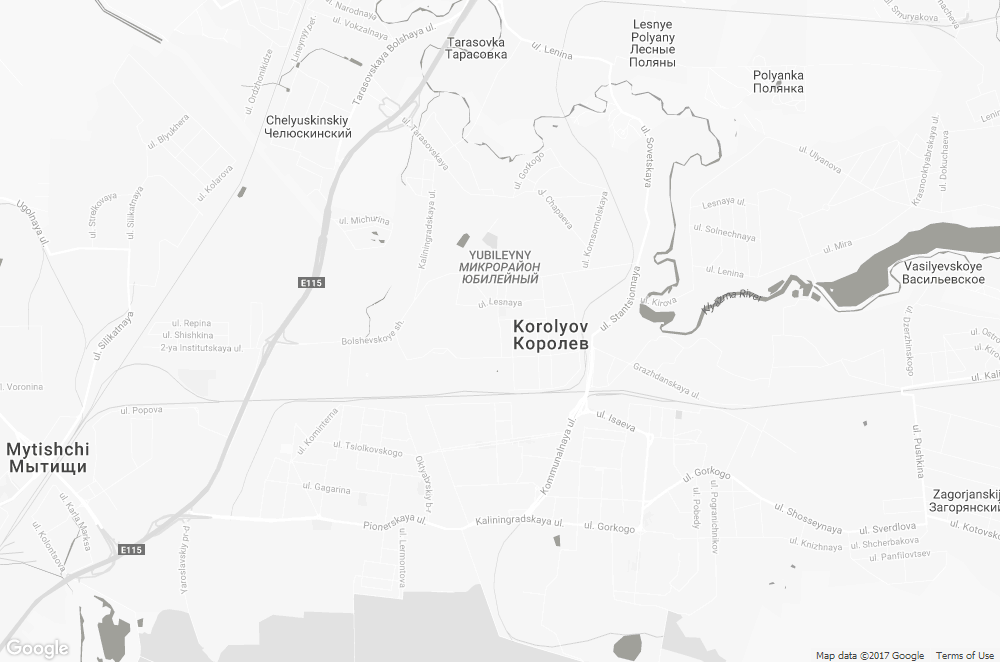
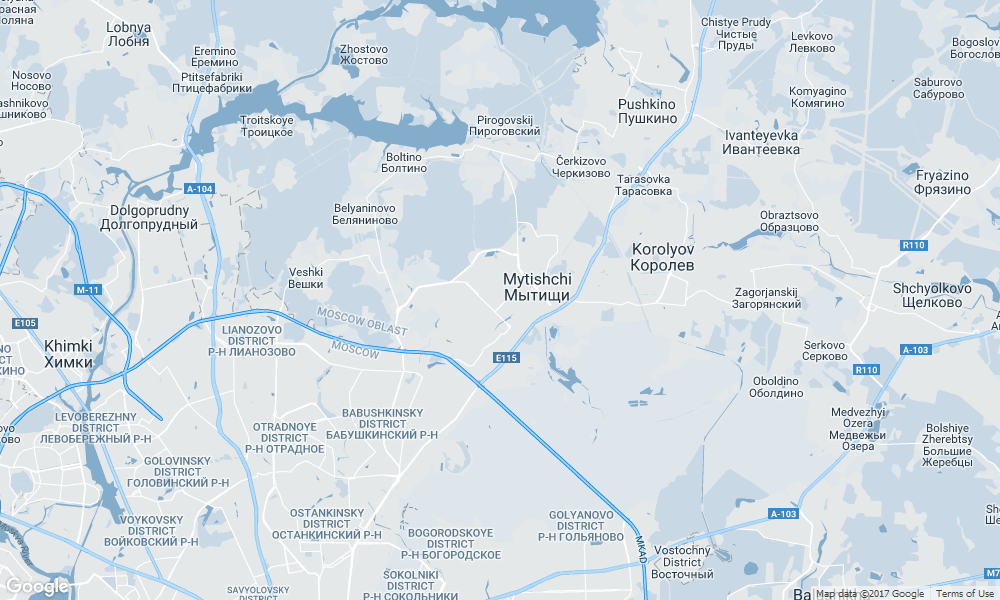
ÐЗаменил карту,доделал скролÐ

diff --git a/source/js/app.js b/source/js/app.js
@@ -4,6 +4,52 @@ $('.hero__toolbar').click(function() {
     $(this).toggleClass('active');
 });
 
+//scroll
+var lastId,
+    topMenu = $("#top-menu"),
+    topMenuHeight = topMenu.outerHeight()+15,
+    // All list items
+    menuItems = topMenu.find("a"),
+    // Anchors corresponding to menu items
+    scrollItems = menuItems.map(function(){
+        var item = $($(this).attr("href"));
+        if (item.length) { return item; }
+    });
+
+// Bind click handler to menu items
+// so we can get a fancy scroll animation
+menuItems.click(function(e){
+    var href = $(this).attr("href"),
+        offsetTop = href === "#" ? 0 : $(href).offset().top-topMenuHeight+1;
+    $('html, body').stop().animate({
+        scrollTop: offsetTop
+    }, 300);
+    e.preventDefault();
+});
+
+// Bind to scroll
+$(window).scroll(function(){
+    // Get container scroll position
+    var fromTop = $(this).scrollTop()+topMenuHeight;
+
+    // Get id of current scroll item
+    var cur = scrollItems.map(function(){
+        if ($(this).offset().top < fromTop)
+            return this;
+    });
+    // Get the id of the current element
+    cur = cur[cur.length-1];
+    var id = cur && cur.length ? cur[0].id : "";
+
+    if (lastId !== id) {
+        lastId = id;
+        // Set/remove active class
+        menuItems
+            .parent().removeClass("active")
+            .end().filter("[href='#"+id+"']").parent().addClass("active");
+    }
+});
+
 var parallaxContainer = document.getElementById('parallax'),
     layers = parallaxContainer.children;
 

diff --git a/source/style/components/info.scss b/source/style/components/info.scss
@@ -9,14 +9,14 @@
   display: flex;
   position: relative;
   flex:1;
-  height: 100vh;
+
   background-color:$beige ;
 }
 .info__right-side{
   display: flex;
   position: relative;
   flex: 2;
-  height: 100vh;
+
   background-color: $beige;
 }
 .info__list{
@@ -30,12 +30,18 @@
   font-weight: bold;
   font-size: 1rem;
   color: #67767c;
+  text-decoration: none;
   &:hover{
     border-right: groove;
     border-color: #00b3ff;
     border-bottom-width: 5px;
   }
 }
+.info__list-content_link{
+  color: #67767c;
+  text-decoration: none;
+}
+
 .info__right-side{
   display: flex;
   flex-direction: column;
@@ -57,4 +63,14 @@
   font-size: 1rem;
   color:#67767c;
   padding: 0 20px 20px 20px;
+}
+
+.info__right-side{
+  display: flex;
+  flex-flow: column;
+  position: relative;
+
+}
+.footer__info{
+  margin-top: 0px;
 }

diff --git a/source/style/components/selector.scss b/source/style/components/selector.scss
@@ -1,0 +1,22 @@
+#top-menu {
+
+}
+
+#top-menu li {
+
+}
+
+#top-menu a {
+  transition: .5s all ease-out;
+  color: #aaa;
+  text-decoration: none;
+}
+
+#top-menu a:hover {
+  color: #000;
+}
+
+#top-menu li.active a {
+
+}
+

diff --git a/source/style/components/arrow-down.scss b/source/style/components/arrow-down.scss
@@ -19,7 +19,8 @@
 
   bottom: 20vh;
   background: url(../img/sprite.png)0 0 no-repeat;
-  background-position: 0px -49px;
+  background-position: 0px -23px;
   width: 26px;
   height: 16px;
+  background-size: 100%;
 }

diff --git a/source/style/components/section.scss b/source/style/components/section.scss
@@ -6,9 +6,9 @@
 .section.about {
   color: #474b57;;
 }
-.map {
+.google-map {
+  position: relative;
   height: 100vh;
-  background-image: url("../img/bg/kor.png");
   background-size: 100% 100%;
 }
 

diff --git a/gulp/paths/app.js b/gulp/paths/app.js
@@ -2,7 +2,8 @@
     // Пути к JS`
     module.exports = [
 //    'source/js/parallax.js',
-//    'source/js/main.js'
-    'source/js/app.js'
+
+    'source/js/app.js',
+
 
     ];

diff --git a/source/style/layout/base.scss b/source/style/layout/base.scss
@@ -19,7 +19,7 @@ body {
   font-size: 14px;
   line-height: 1.42;
   -webkit-font-smoothing: antialiased;
-}
+  }
 
 .wrapper {
   min-height: 100%;

diff --git a/source/style/components/circle.scss b/source/style/components/circle.scss
@@ -1,6 +1,6 @@
 .skill__circle{
   fill: none;
-  stroke-width: 15px;
+  stroke-width: 12px;
   stroke: #dfdcd5 ;
 
 }

diff --git a/source/style/components/user.scss b/source/style/components/user.scss
@@ -14,7 +14,7 @@
 .user__name {
   margin-bottom: 10px;
   color: #ffffff;
-  font-size: 17px;
+
 }
 
 .user__desc {

diff --git a/source/style/components/socials-link.scss b/source/style/components/socials-link.scss
@@ -45,4 +45,5 @@
   background-size: 100%;
 
 
+
 }

diff --git a/source/js/modules/selector.js b/source/js/modules/selector.js
@@ -1,0 +1,1 @@
+// Cache selectors
